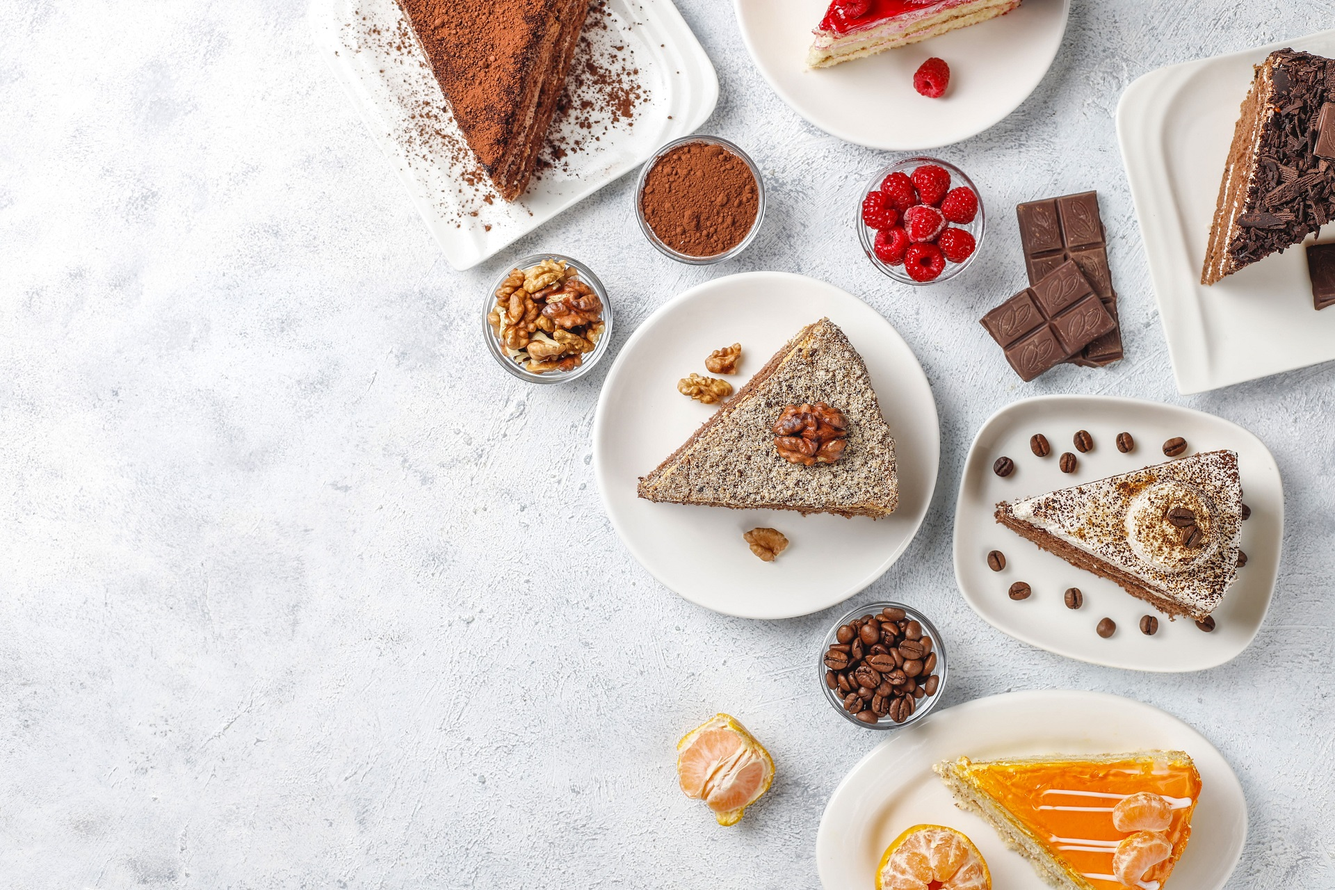
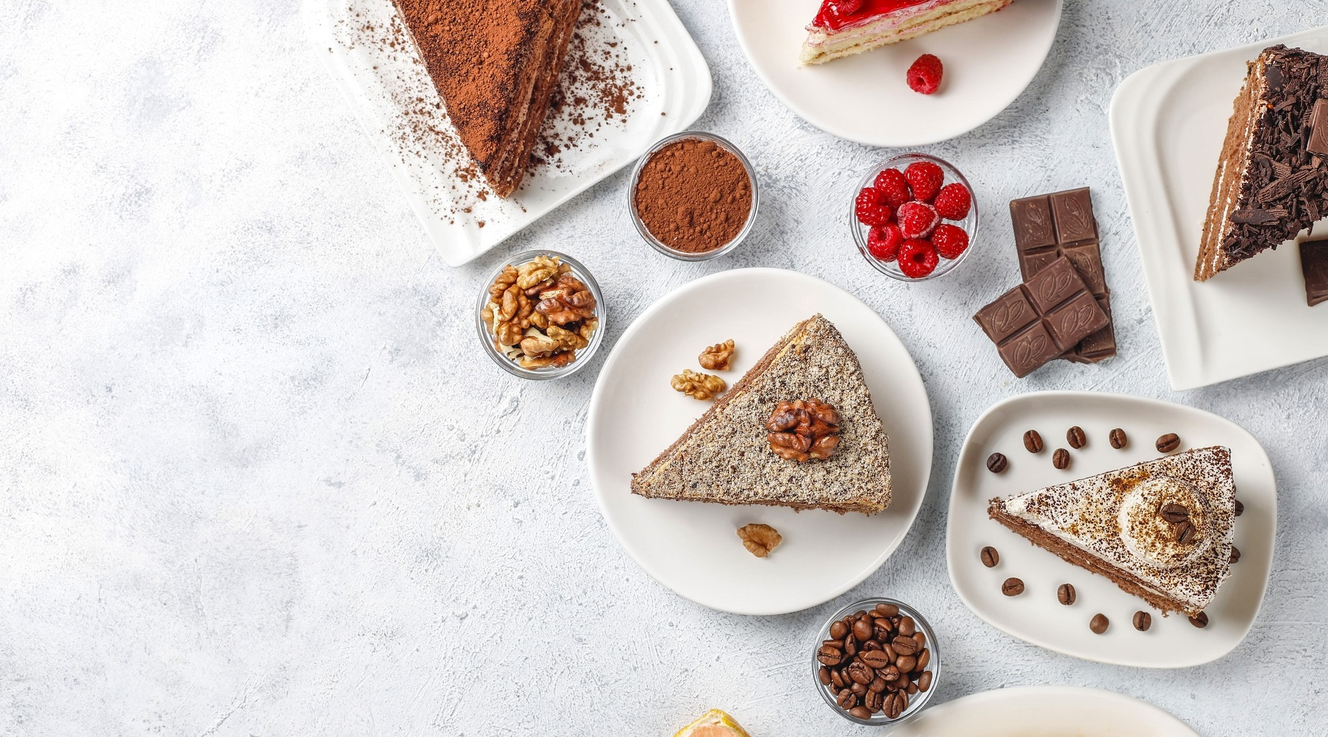
fsd

diff --git a/index.html b/index.html
@@ -79,7 +79,7 @@
     <section
       id="home"
       class="fullheight align-items-center bg-img bg-img-fixed"
-      style="background-image: url(assets/header-min.jpg)"
+      style="background-image: url(assets/cover.jpg)"
     >
       <div class="container">
         <div class="row">
